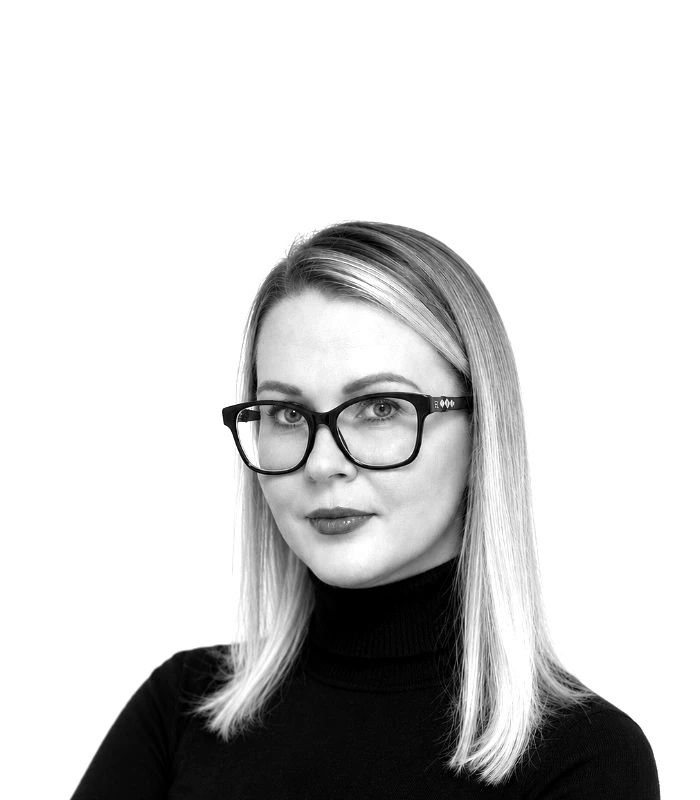
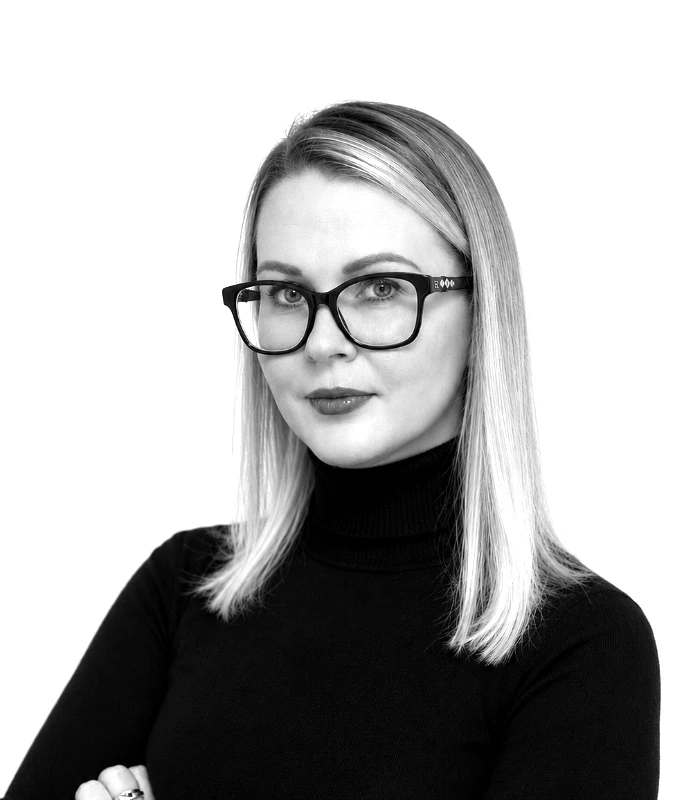
Ksenia's portrait: less white above, more of her below

diff --git a/index.html b/index.html
@@ -6,10 +6,10 @@
 <title>Legalia Advokaadibüroo</title>
 <meta name="theme-color" content="#f9f9f9">
 <link rel="icon" href="assets/logo.svg" type="image/svg+xml">
-<link rel="stylesheet" href="css/style.css?v=v2-62">
-<script src="js/i18n.js?v=v2-62" defer></script>
-<script src="js/main.js?v=v2-62" defer></script>
-<script src="js/intro.js?v=v2-62" defer></script>
+<link rel="stylesheet" href="css/style.css?v=v2-63">
+<script src="js/i18n.js?v=v2-63" defer></script>
+<script src="js/main.js?v=v2-63" defer></script>
+<script src="js/intro.js?v=v2-63" defer></script>
 </head>
 <body>
 <!-- All texts live in js/i18n.js. Elements here only carry their key (data-i18n for text, data-i18n-label for aria-label). -->
